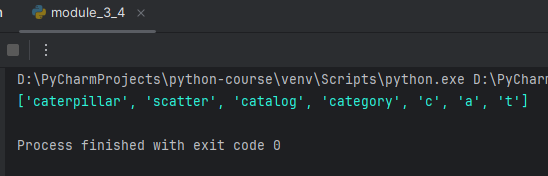
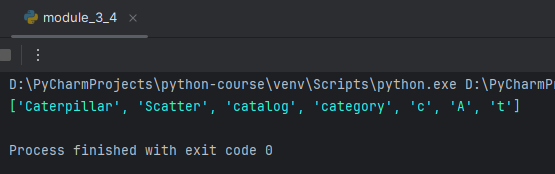
hw4 complete. added .lower() command to disregard register when comparing words.

diff --git a/module3/hw4/module_3_4.py b/module3/hw4/module_3_4.py
@@ -22,13 +22,13 @@ def single_root_words(root_word, *other_words):
     same_words = []
 
     for word in other_words:
-        if root_word in word or word in root_word:
+        if root_word.lower() in word.lower() or word.lower() in root_word.lower():
             same_words.append(word)
 
     return same_words
 
 
 result = single_root_words('cat',
-                           'caterpillar', 'dog', 'scatter', 'catalog', 'bat', 'category', 'c', 'a', 't')
+                           'Caterpillar', 'dog', 'Scatter', 'catalog', 'bat', 'category', 'c', 'A', 't')
 
 print(result)
